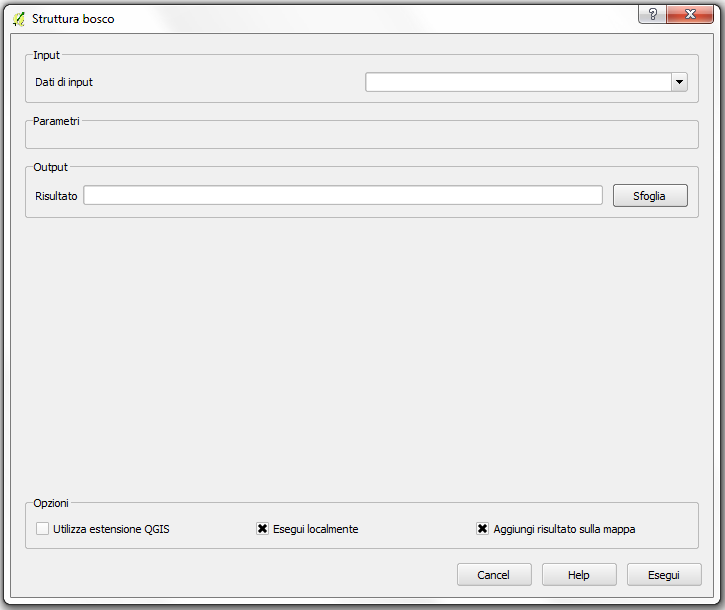
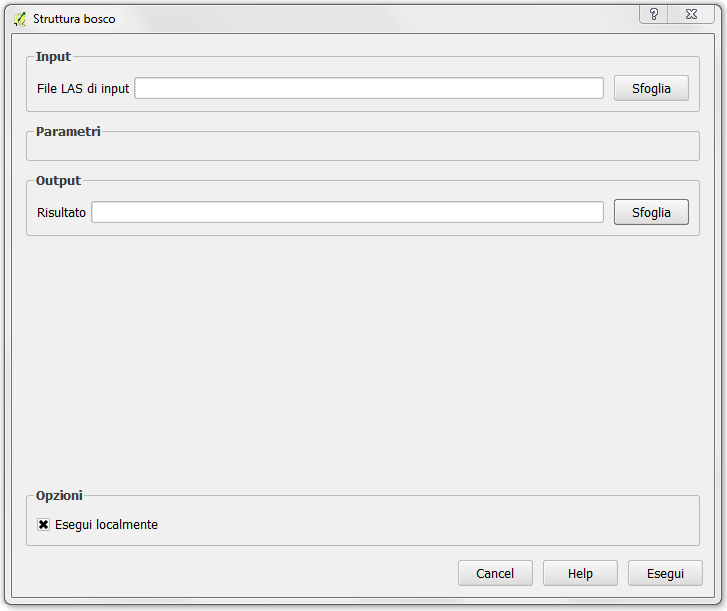
Added new help documents

Changed region(s): [[0.0, 0.0, 1.0, 1.0]]

diff --git a/libs/feature_selection.py b/libs/feature_selection.py
@@ -190,6 +190,7 @@ def seq_forward_floating_fs(data, classes, strategy=np.mean, precision=6,
             res[i] = dict(features=fs, distance=dist[idistmax])
 
         if check == round(dist[idistmax], precision):
+            QMessageBox.question("Successo, ma ci siamo fermati prima", "Abbiamo {0} features su {1}".format(i, nfeat))
             return res
     return res
 

diff --git a/docs/source/tools/struttura_bosco.rst b/docs/source/tools/struttura_bosco.rst
@@ -1,7 +1,7 @@
 Struttura bosco
 ================================
 
-Il modulo permette di stimare la tipologia di struttura del bosco (monoplana, biplana o multiplana) a partire da file .las del Canopy Height Model (ottenuto in uscita dal modulo "Estrazione CHM"). L'algoritmo si basa su un metodo di clustering e su una serie di soglie sulla distribuzione di altezza dei punti LIDAR in celle di dimensione prefissata. Successivamente il risultato é aggregato su aree di maggiore dimensione fornite dall'utente (file shp). L'algoritmo fornisce in uscita un file .shp modificato in cui viene aggiunta la colonna con l'informazione riguardante la struttura e un file .las modificato in cui l'informazione sulla strutturta e' contenuta nel campo "sourceID".
+Il modulo permette di stimare la tipologia di struttura del bosco (monoplana, biplana o multiplana) a partire da file .las del Canopy Height Model (ottenuto in uscita dal modulo "Estrazione CHM"). L'algoritmo si basa su un metodo di clustering e su una serie di soglie sulla distribuzione di altezza dei punti LIDAR in celle di dimensione prefissata. L'algoritmo fornisce in uscita un file .las modificato in cui l'informazione sulla strutturta è contenuta nel campo "sourceID".
 
 .. only:: latex
 
@@ -12,13 +12,6 @@ Input
 ------------
 
 **File LAS di input**: selezionare il file .las di input realtivo al CHM.
-
-**Shapefile di input**: selezionare il file .shp con le aree su cui stimare la struttura.
-
-Parametri
-------------
-
-**Soglia**: soglia per rimuovere i punti considerati terreno o arbusti (default 1 m).
 
 Output
 ------------

diff --git a/docs/source/tools/individuazione_alberi.rst b/docs/source/tools/individuazione_alberi.rst
@@ -17,9 +17,9 @@ Input
 Parametri
 ------------
 
-**Valore minimo della finestra mobile per trovare gli alberi**: dimensione minima della finestra mobile usata per identificare i massimi locali. Il valore deve essere dispari e maggiore o uguale a 3.
+**Valore minimo della finestra mobile per trovare gli alberi**: dimensione minima in piexels della finestra mobile usata per identificare i massimi locali. Il valore deve essere dispari e maggiore o uguale a 3.
 
-**Valore massimo della finestra mobile per trovare gli alberi**: dimensione massima della finestra mobile usata per identificare i massimi locali. Il valore deve essere dispari e maggiore o uguale al parametro precedente (*Valore minimo della finestra mobile per trovare gli alberi*).
+**Valore massimo della finestra mobile per trovare gli alberi**: dimensione massima in piexels della finestra mobile usata per identificare i massimi locali. Il valore deve essere dispari e maggiore o uguale al parametro precedente (*Valore minimo della finestra mobile per trovare gli alberi*).
 
 **Valore minimo dell'altezza degli alberi**: soglia minima di altezza per gli alberi da individuare (es. 2 m).
 
